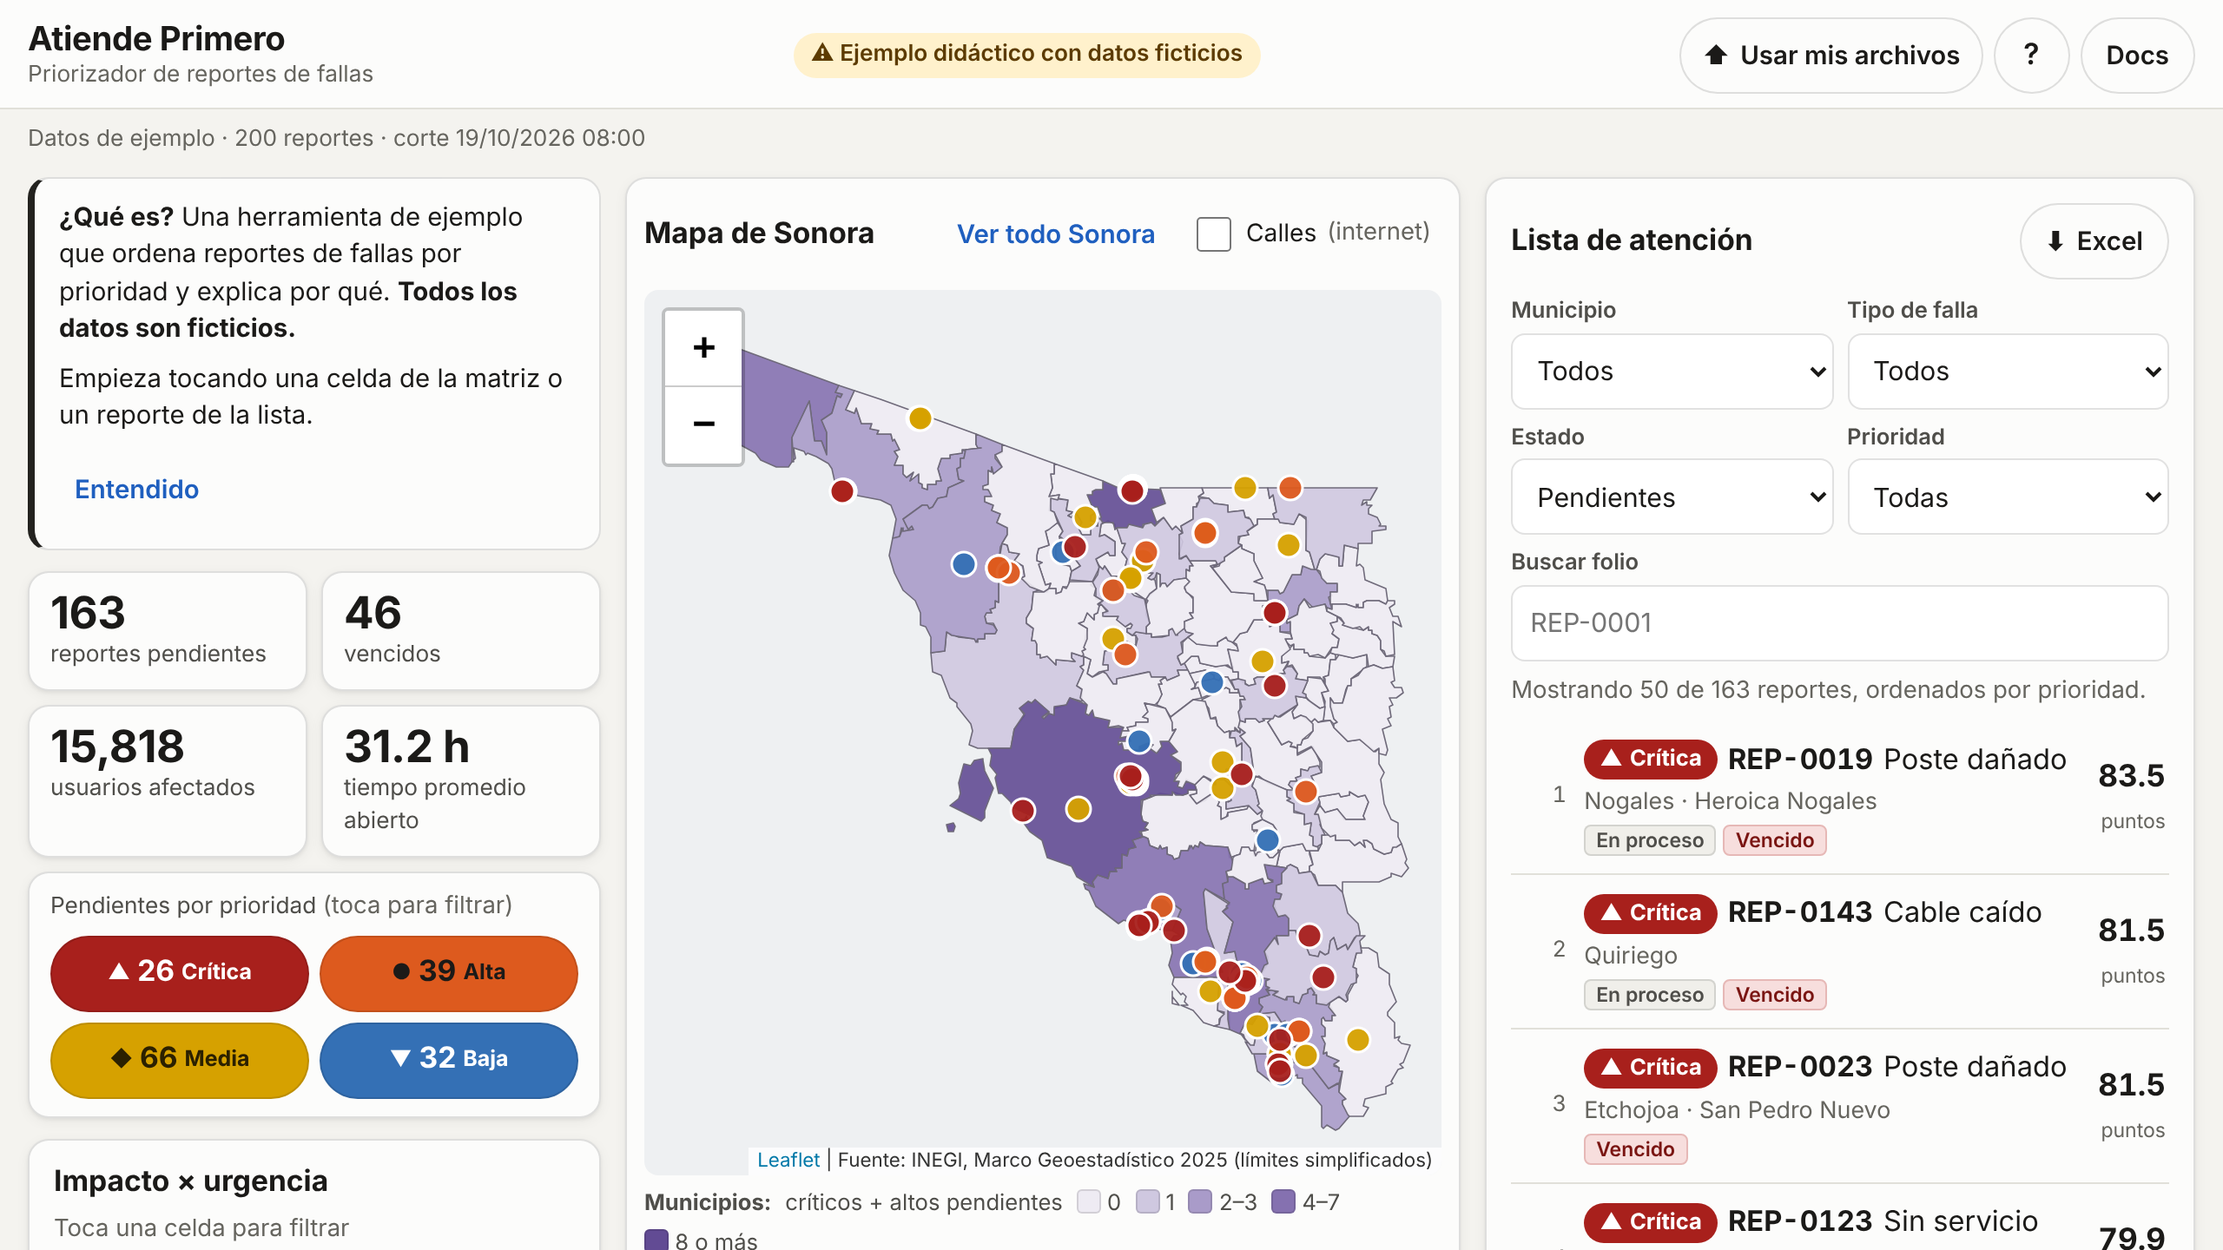
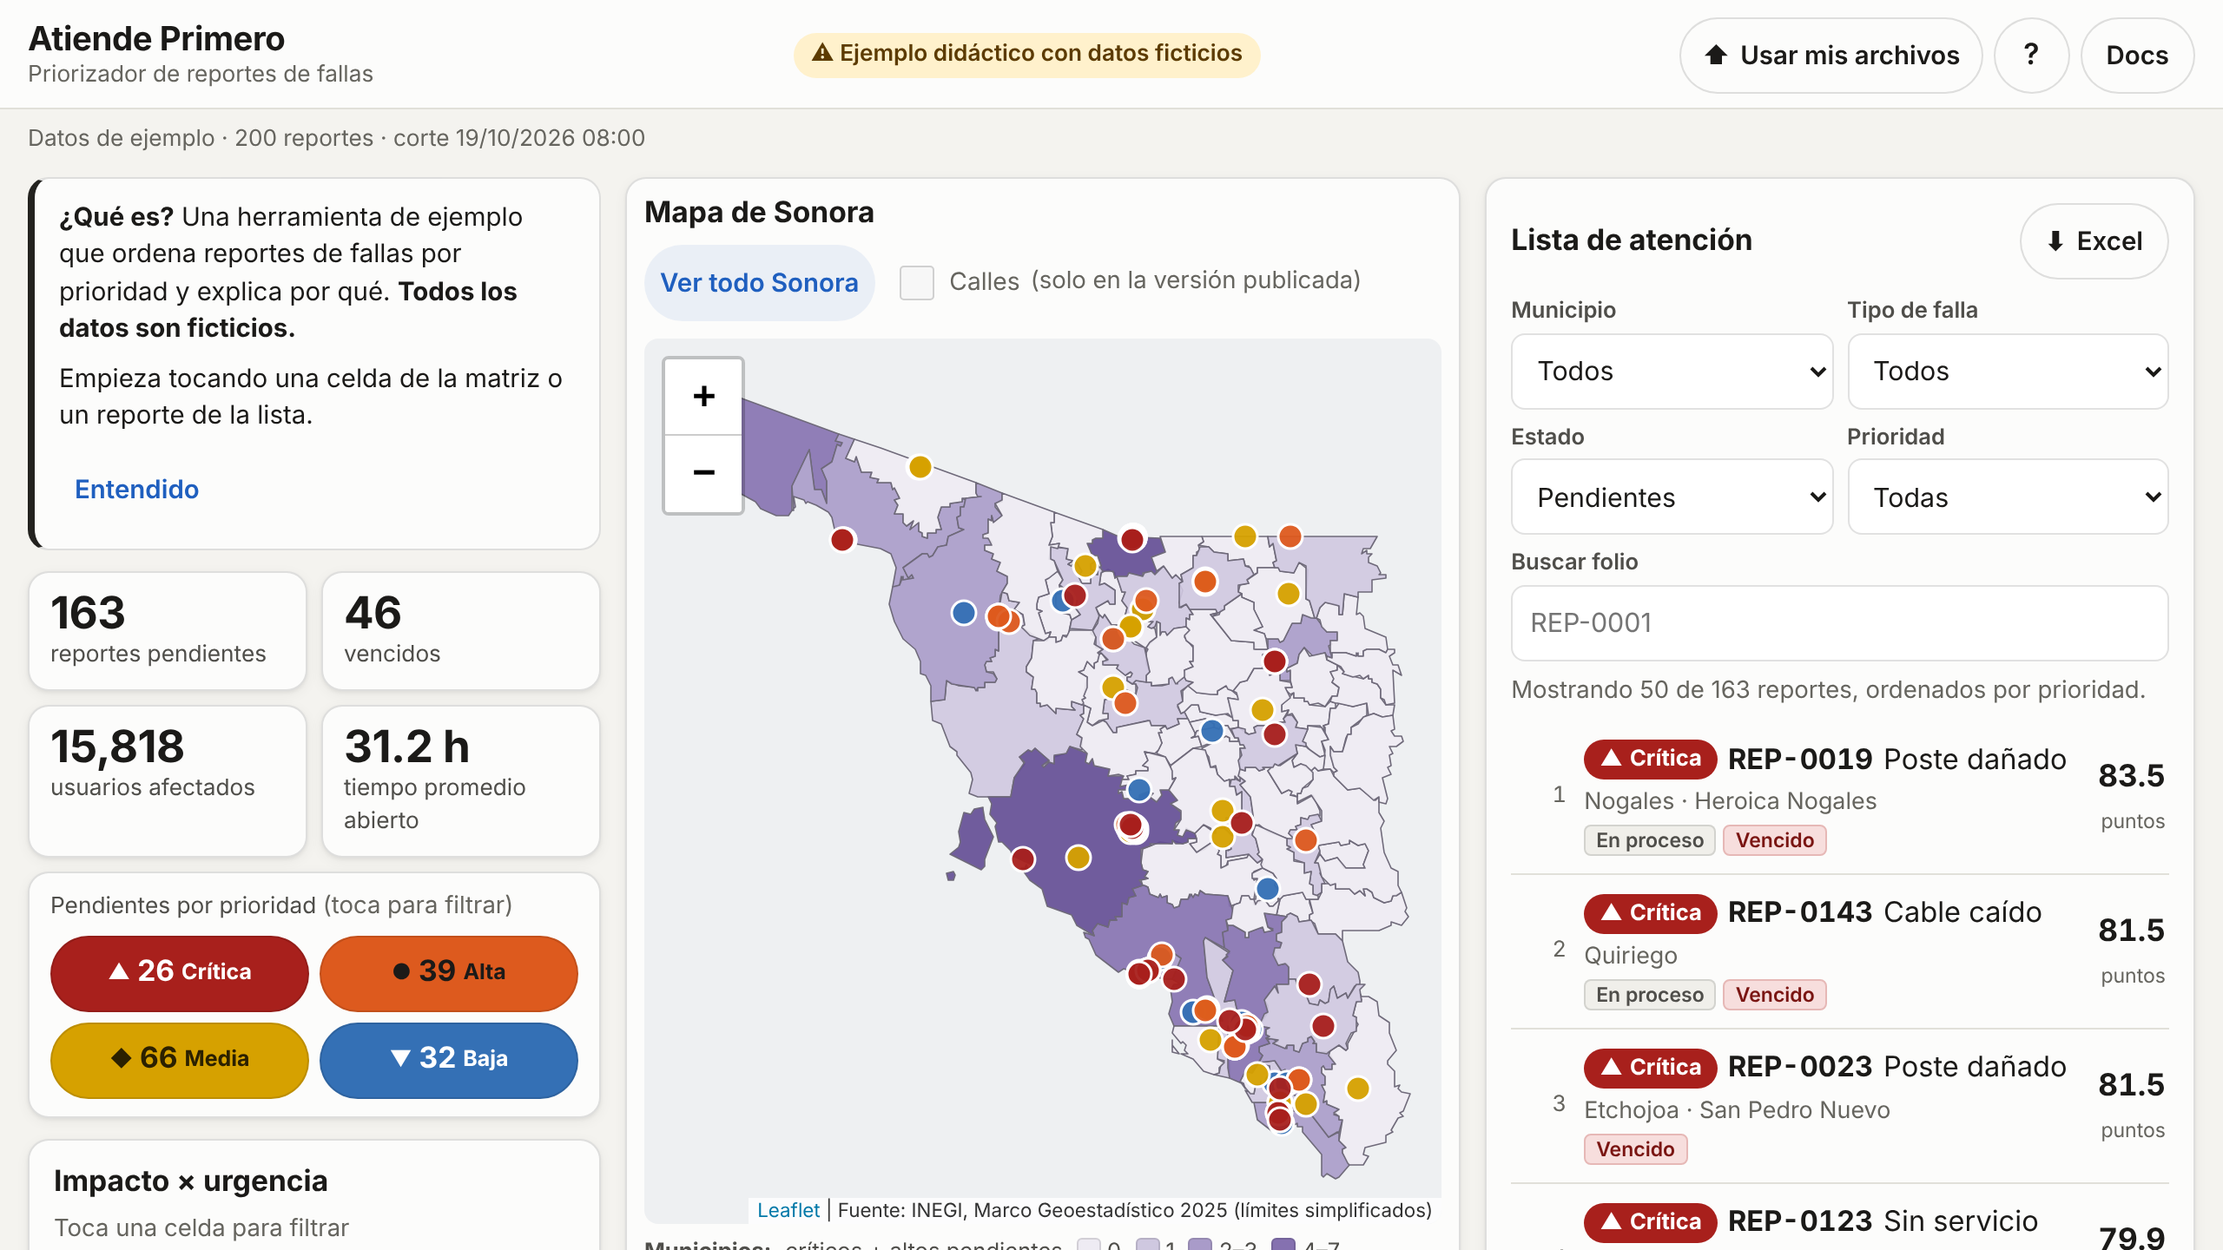
Capa de calles: enviar solo el dominio a OpenStreetMap (su política exige Referer)
- referrerPolicy strict-origin solo para las imágenes de calles; el resto sigue sin Referer
- con doble clic (file://) la capa se deshabilita con una explicación
- pruebas, documentación y bitácora actualizadas

Claude-Session: https://claude.ai/code/session_01KVSpEyUjYEy373J9AvicYq

Changed region(s): [[0.2812, 0.1562, 0.625, 1.0], [0.4375, 0.1875, 0.625, 0.25]]

diff --git a/pruebas/e2e/validacion.js b/pruebas/e2e/validacion.js
@@ -399,8 +399,17 @@ async function privacidad(navegador) {
     "la política de seguridad bloquea fetch, XMLHttpRequest, sendBeacon e imágenes hacia otro sitio (nada llegó a la red)", Object.assign({ llegaronALaRed: llegaron }, intento));
   await contexto.close();
 
-  // Capa de calles: si se cancela, no pide nada; si se acepta, solo pide imágenes a OpenStreetMap y sin Referer
-  const calles = await abrir(navegador, URL_ARCHIVO, { width: 1366, height: 768 }, { ignorarConsola: /tile\.openstreetmap/ });
+  // Capa de calles. OpenStreetMap exige saber desde qué sitio se piden sus imágenes (Referer); se envía solo el dominio.
+  // 1) Con doble clic (file://) no hay dominio: la capa está deshabilitada y no se pide nada.
+  const local = await abrir(navegador, URL_ARCHIVO, { width: 1366, height: 768 });
+  comprobar(await local.pagina.isDisabled("#chk-calles") && /versión publicada/.test(await local.pagina.textContent("#nota-calles")),
+    "capa de calles con doble clic: deshabilitada y con explicación");
+  await local.contexto.close();
+
+  // 2) Publicada (servidor local): si se cancela, no pide nada; si se acepta, solo pide a OpenStreetMap con el dominio.
+  const srvCalles = await iniciarServidor();
+  const calles = await abrir(navegador, srvCalles.base + "/#pesos=severidad.40~usuarios.25~tiempo.20~recurrencia.10~riesgo.15",
+    { width: 1366, height: 768 }, { origen: srvCalles.base, ignorarConsola: /tile\.openstreetmap/ });
   const teselas = [];
   await calles.contexto.route("https://tile.openstreetmap.org/**", (ruta) => {
     teselas.push({ url: ruta.request().url(), referer: ruta.request().headers().referer });
@@ -413,10 +422,14 @@ async function privacidad(navegador) {
   calles.pagina.once("dialog", (d) => d.accept());
   await calles.pagina.click("#chk-calles");
   await calles.pagina.waitForTimeout(1500);
-  const otras = calles.peticiones.filter((u) => !u.startsWith("file:") && !u.startsWith("data:") && !u.startsWith("https://tile.openstreetmap.org/"));
+  const otras = calles.peticiones.filter((u) => !u.startsWith(srvCalles.base) && !u.startsWith("data:") && !u.startsWith("https://tile.openstreetmap.org/"));
   comprobar(teselas.length > 0 && otras.length === 0, "capa de calles aceptada: solo pide imágenes a tile.openstreetmap.org", { teselas: teselas.length, otras });
-  comprobar(teselas.every((t) => !t.referer), "capa de calles: las peticiones no llevan Referer");
+  const origen = srvCalles.base + "/";
+  comprobar(teselas.every((t) => t.referer === origen), "capa de calles: cada imagen lleva solo el dominio del sitio (sin ruta ni #pesos), como pide OpenStreetMap",
+    Array.from(new Set(teselas.map((t) => t.referer))));
+  comprobar(srvCalles.solicitudes.every((x) => !x.encabezados.referer), "el resto del sitio no envía Referer", srvCalles.solicitudes.filter((x) => x.encabezados.referer).map((x) => x.url));
   await calles.contexto.close();
+  await srvCalles.cerrar();
 
   // Revisión del código: nada que pueda enviar datos
   const prohibido = /\bfetch\s*\(|XMLHttpRequest|sendBeacon|WebSocket|EventSource|navigator\.geolocation|document\.cookie/;

diff --git a/sitio/js/mapa.js b/sitio/js/mapa.js
@@ -57,7 +57,14 @@
       App.cambiarFiltros({ municipio: null });
       mapa.flyToBounds(limitesSonora, { duration: 0.4 });
     });
-    document.getElementById("chk-calles").addEventListener("change", alternarCalles);
+    var casillaCalles = document.getElementById("chk-calles");
+    casillaCalles.addEventListener("change", alternarCalles);
+    // Abierta con doble clic no hay dominio que enviar y OpenStreetMap bloquearía las imágenes.
+    if (location.protocol === "file:") {
+      casillaCalles.disabled = true;
+      casillaCalles.closest("label").title = "OpenStreetMap solo permite la capa de calles desde una página publicada en internet.";
+      document.getElementById("nota-calles").textContent = "(solo en la versión publicada)";
+    }
     leyenda();
   }
 
@@ -71,10 +78,12 @@
   function alternarCalles(evento) {
     if (evento.target.checked) {
       var acepta = window.confirm("La capa de calles pide imágenes del mapa a los servidores de OpenStreetMap, por internet.\n\n" +
-        "Tus reportes NO se envían: solo se piden imágenes de la zona que estás viendo.\n\n¿Activarla?");
+        "OpenStreetMap recibirá la zona del mapa que estás viendo y el nombre de este sitio. Tus reportes y tus pesos NO se envían.\n\n¿Activarla?");
       if (!acepta) { evento.target.checked = false; return; }
       capaCalles = capaCalles || L.tileLayer("https://tile.openstreetmap.org/{z}/{x}/{y}.png", {
-        maxZoom: 19, attribution: '© <a href="https://www.openstreetmap.org/copyright" rel="noreferrer">OpenStreetMap</a>', referrerPolicy: "no-referrer"
+        maxZoom: 19, attribution: '© <a href="https://www.openstreetmap.org/copyright" rel="noreferrer">OpenStreetMap</a>', // La política de uso de OpenStreetMap exige saber desde qué sitio se piden las imágenes (encabezado Referer).
+        // "strict-origin" envía solo el dominio (sin ruta, sin #pesos); el resto de la página no envía nada.
+        referrerPolicy: "strict-origin"
       });
       capaCalles.addTo(mapa);
       capaCalles.bringToBack();

diff --git a/sitio/css/estilos.css b/sitio/css/estilos.css
@@ -176,6 +176,7 @@ code { font-size: 0.92em; background: var(--superficie-2); padding: 0 4px; borde
 .controles-mapa { display: flex; align-items: center; gap: 4px; flex-wrap: wrap; }
 .interruptor { display: inline-flex; align-items: center; gap: 6px; font-size: 0.88rem; min-height: 44px; padding: 0 6px; cursor: pointer; }
 .interruptor input { width: 20px; height: 20px; }
+.interruptor:has(input:disabled) { cursor: not-allowed; color: var(--tenue); }
 .leyenda-mapa { display: flex; flex-wrap: wrap; gap: 6px 16px; margin-top: 8px; font-size: 0.8rem; color: var(--tinta-2); }
 .leyenda-mapa .grupo { display: flex; flex-wrap: wrap; align-items: center; gap: 4px 8px; }
 .leyenda-mapa .muestra { display: inline-block; width: 14px; height: 14px; border-radius: 3px; border: 1px solid var(--borde); vertical-align: -2px; }

diff --git a/sitio/index.html b/sitio/index.html
@@ -94,7 +94,7 @@
           <h2 id="t-mapa">Mapa de Sonora</h2>
           <div class="controles-mapa">
             <button type="button" class="boton boton-texto" id="btn-ver-sonora">Ver todo Sonora</button>
-            <label class="interruptor"><input type="checkbox" id="chk-calles"> Calles <span class="nota">(internet)</span></label>
+            <label class="interruptor"><input type="checkbox" id="chk-calles"> Calles <span class="nota" id="nota-calles">(internet)</span></label>
           </div>
         </div>
         <div id="mapa" class="mapa" role="application" aria-label="Mapa de municipios de Sonora con reportes pendientes"></div>

diff --git a/docs/bitacora.md b/docs/bitacora.md
@@ -618,3 +618,42 @@ El usuario activó GitHub Pages con origen GitHub Actions. Se relanzó el flujo 
   - 37 del cálculo (también corren en GitHub antes de cada publicación);
   - 33 de humo y 111 de validación en navegador (se corren a mano con `npm run humo` y `npm run validacion`).
 - Pendiente del usuario: la lista de verificación manual, en celulares reales, Safari, Firefox y el proyector.
+
+---
+
+## Corrección después de publicar · capa de calles — 2026-10-21
+
+### 🗣 Instrucción (textual)
+> (captura del mapa con la capa "Calles" activada: imágenes de OpenStreetMap con "403 Access blocked — App is not
+> following the tile usage policy of OpenStreetMap's volunteer-run servers") Ayuda a solucoinar:
+
+### 🔧 Causa
+La política de uso de OpenStreetMap exige que las páginas web envíen el encabezado `Referer` (de qué sitio vienen
+las peticiones). Por privacidad, el sitio lo suprimía en todo, incluida la capa de calles, y OpenStreetMap
+bloqueaba las imágenes.
+
+Las pruebas no lo detectaron porque simulaban las respuestas de OpenStreetMap: la red del entorno no llega a sus
+servidores. Incluso daban como correcto "sin Referer".
+
+### ❓ Pregunta de Claude y ✅ respuesta
+| Pregunta | Opciones ofrecidas | ✅ Respuesta |
+|---|---|---|
+| ¿Cómo lo resolvemos? | Enviar solo el dominio (recomendado) · Quitar la capa de calles · Usar otro proveedor de mapas | **Enviar solo el dominio** |
+
+⚖ *Por qué:* enviar solo el dominio en esas imágenes cumple la política sin revelar la ruta, los pesos ni ningún
+dato, y no agrega terceros.
+
+### 🔧 Qué se hizo
+- `mapa.js`:
+  - la capa de calles usa `referrerPolicy: "strict-origin"`, es decir, solo `https://rolandogr.github.io/`;
+  - el aviso de confirmación explica qué recibe OpenStreetMap.
+- Con doble clic (`file://`) la casilla "Calles" se deshabilita, con la nota "(solo en la versión publicada)",
+  porque ahí no hay dominio que enviar.
+- El resto de la página sigue con `no-referrer`.
+- Pruebas: el `Referer` de cada imagen es exactamente el dominio, incluso con `#pesos` en el enlace; el resto del
+  sitio no envía `Referer`; con `file://` la capa está deshabilitada.
+- Resultados: `npm test` 37/37, `npm run humo` 33/33, `npm run validacion` 113/113.
+- Documentación actualizada: `mapa.md`, `validacion.md`, `limitaciones.md`, `guia-replicar.md` y `CLAUDE.md`.
+
+⚖ **Lección:** una medida de privacidad chocó con las reglas de un servicio externo. Las pruebas que simulan un
+servicio no sustituyen probar contra el servicio real.

diff --git a/docs/validacion.md b/docs/validacion.md
@@ -18,7 +18,7 @@ Resultados completos y legibles por máquina: `docs/validacion-resultados.json`.
 | Archivos maliciosos o dañados | Excel con código incrustado, archivo dañado, archivo que no es Excel, Excel vacío | ✅ No se ejecuta nada; mensajes claros; se conservan los datos |
 | Página de documentación (Fase 5) | Celular y computadora: accesibilidad, desbordes, imágenes, peticiones, ninguna institución mencionada | ✅ |
 
-Comandos (después de `npm install`): `npm test` (37), `npm run humo` (33) y `npm run validacion` (111 comprobaciones; 99 en la Fase 4 y 12 de la página de documentación agregadas en la Fase 5).
+Comandos (después de `npm install`): `npm test` (37), `npm run humo` (33) y `npm run validacion` (113 comprobaciones: 99 de la Fase 4, 12 de la página de documentación de la Fase 5 y 2 más de la capa de calles).
 
 ## 1. Cálculo y reglas duras
 - Los dos ejemplos de `docs/modelo.md` (REP-0200: 21.15 puntos; REP-0083: 60.85) coinciden al centésimo.
@@ -123,7 +123,11 @@ emulado. Mediana de 3 corridas sin caché.
   sitio): la política de seguridad (CSP) los bloqueó todos y **nada llegó a la red**.
 - **Capa de calles:**
   - si se cancela el aviso, no pide nada;
-  - si se acepta, solo pide imágenes a `tile.openstreetmap.org`, sin `Referer`.
+  - si se acepta, solo pide imágenes a `tile.openstreetmap.org` y envía únicamente el dominio del sitio, como exige
+    la política de uso de OpenStreetMap (sin ruta ni `#pesos`). El resto del sitio no envía `Referer`;
+  - con doble clic (`file://`) la capa está deshabilitada, porque no hay dominio que enviar.
+  - *Corrección posterior a la publicación:* al principio la capa no enviaba ningún `Referer` y OpenStreetMap
+    bloqueaba las imágenes ("Access blocked"). Las pruebas no lo detectaron porque simulaban sus respuestas.
 - **Revisión del código de `sitio/js`:** no usa `fetch`, `XMLHttpRequest`, `sendBeacon`, `WebSocket`,
   `EventSource`, geolocalización ni cookies. Las únicas direcciones externas son los enlaces de atribución, la
   capa opcional y el repositorio.

diff --git a/CLAUDE.md b/CLAUDE.md
@@ -72,7 +72,7 @@ bash scripts/preparar_mapa.sh             # sitio/datos/municipios.js (Marco Geo
 # Pruebas (una vez: npm install; usa Playwright 1.56.1 con el Chromium del entorno)
 npm test                 # 37 pruebas del cálculo y la lectura de Excel (node --test "pruebas/*.test.js")
 npm run humo             # 33 comprobaciones del dashboard en Chromium (file:// y HTTP); capturas en docs/capturas/
-npm run validacion       # 111 comprobaciones: tamaños, accesibilidad, sin conexión, tiempos, privacidad, documentación
+npm run validacion       # 113 comprobaciones: tamaños, accesibilidad, sin conexión, tiempos, privacidad, documentación
 npm run capturas         # regenera sitio/img/*.jpg (imágenes de documentacion.html, ≤ 150 KB)
 
 # Código QR del enlace publicado (docs/qr/)
@@ -115,6 +115,8 @@ python3 -m http.server -d sitio 8000
   Baja `#3470b5` ▼. Texto blanco salvo Alta y Media (texto oscuro): todos ≥ 4.5:1. Siempre con icono y texto. El mapa usa una rampa violeta; la matriz, grises.
 - Celular: pestañas abajo. Desde 1024 px: tres columnas. La leyenda de datos ficticios nunca se tapa.
 - CSP en `index.html`: `connect-src 'none'`; la única imagen externa permitida es la capa opcional de OpenStreetMap.
+- La página usa `<meta name="referrer" content="no-referrer">`, salvo la capa de calles: `referrerPolicy: "strict-origin"`
+  (solo el dominio), porque OpenStreetMap bloquea las imágenes sin `Referer`. Con `file://` la capa se deshabilita.
 - SheetJS se precarga en segundo plano al terminar de abrir (`Cargador.asegurarSheetJS()`), para que cargar y exportar
   funcionen sin señal; no lo pongas en el `<head>`.
 - Diálogos siempre con `Util.abrirDialogo` / `Util.cerrarDialogo` (respaldo para navegadores sin `<dialog>`).

diff --git a/docs/guia-replicar.md b/docs/guia-replicar.md
@@ -120,6 +120,7 @@ Todas las preguntas con sus opciones completas están en `docs/bitacora.md`.
 | La captura muestra algo cortado o encimado | Diseño sin revisar en ese tamaño | Dile exactamente qué ves; pídele que vuelva a tomar capturas |
 | Las pruebas tardan mucho | Código lento (aquí: 52 s → 4.6 s) | Pídele que investigue la causa antes de seguir |
 | La sesión se reinició | El entorno es temporal | Pide que verifique el estado y continúe; por eso conviene guardar en GitHub al cerrar cada fase |
+| La capa de calles dice *Access blocked* | OpenStreetMap exige saber desde qué sitio se piden sus imágenes, y la página no lo enviaba por privacidad | Enviar solo el dominio en esas imágenes (`referrerPolicy: "strict-origin"`); se descubrió ya publicado porque las pruebas simulaban OpenStreetMap |
 | No entiendes una pregunta | — | Pregúntale: "explícamelo como si no supiera programar" |
 
 ## 6. ¿Saldrá idéntico?

diff --git a/docs/mapa.md b/docs/mapa.md
@@ -67,3 +67,10 @@ pequeños de la sierra conservan mejor su forma y sigue por debajo de la meta de
 ## Capa opcional de calles
 Puede activarse una capa de OpenStreetMap si hay conexión. Viene **apagada**, porque al activarla el navegador pide
 imágenes a un servidor externo. La herramienta funciona completa sin ella.
+
+- **Política de uso de OpenStreetMap:** sus servidores son de voluntarios y exigen saber desde qué sitio se piden
+  las imágenes (encabezado `Referer`). La capa envía **solo el dominio** (`https://rolandogr.github.io/`), sin ruta
+  ni `#pesos`. El resto de la página no envía nada.
+- **Con doble clic (`file://`) no está disponible:** no hay dominio que enviar y OpenStreetMap bloquearía las
+  imágenes.
+- Es para uso ligero, como una demostración. Un uso intensivo debería usar un proveedor de mapas propio o contratado.

diff --git a/docs/limitaciones.md b/docs/limitaciones.md
@@ -21,6 +21,8 @@ decisión con criterios explícitos y explicables. No es un sistema de operació
 
   Sus pesos, tablas, umbrales y reglas se cambian en Excel. Agregar un criterio nuevo al puntaje requiere cambiar
   el código (ver `adaptar-a-mi-area.md`).
+- **La capa de calles es opcional y externa.** Solo funciona en la versión publicada y depende de los servidores
+  voluntarios de OpenStreetMap, que solo permiten uso ligero.
 - **No reabre sin señal.** Una vez abierta funciona sin conexión, pero recargarla sin señal no funciona en el sitio
   publicado. Con doble clic en la computadora siempre funciona.
 - **El mapa es aproximado.** Los límites municipales se simplificaron para que carguen rápido. No sirven para medir

diff --git a/docs/publicacion.md b/docs/publicacion.md
@@ -42,7 +42,7 @@ Se generan con `python3 scripts/generar_qr.py` y se comprobó con un lector inde
 - El sitio servido bajo la subcarpeta `/atiende-primero/`, como en GitHub Pages, abre con los 200 reportes.
 - Los Excel de ejemplo se descargan y la página de documentación enlaza de ida y vuelta con la herramienta.
 - No hay rutas absolutas ni archivos faltantes (0 errores 404).
-- `npm test` 37/37, `npm run humo` 33/33, `npm run validacion` 111/111.
+- `npm test` 37/37, `npm run humo` 33/33, `npm run validacion` 113/113.
 
 ## Lista de verificación final (con el enlace ya publicado)
 Marca cada punto en dispositivos reales. Son las pruebas que no se pudieron hacer en el entorno de trabajo (ver
